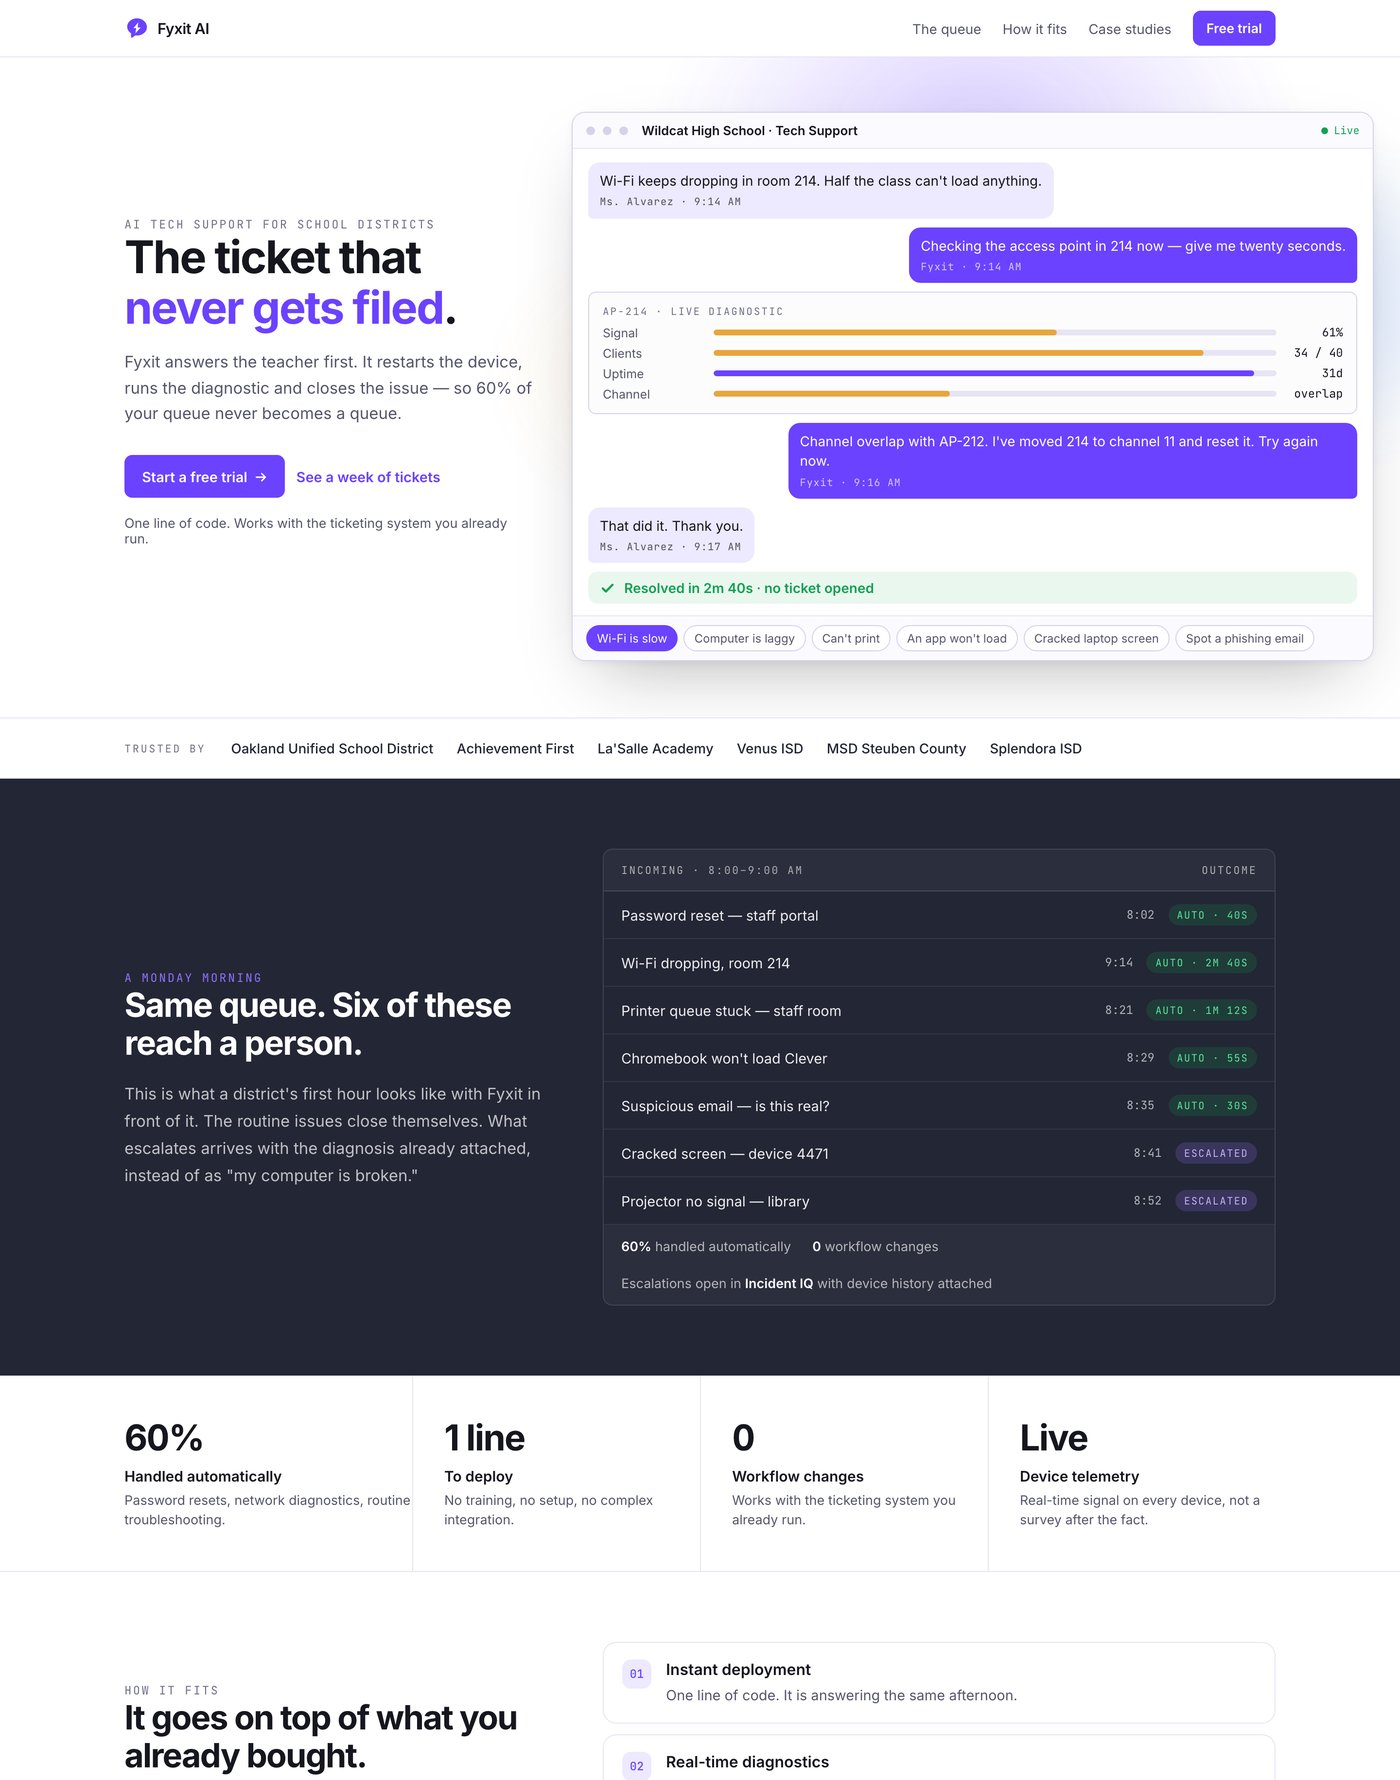
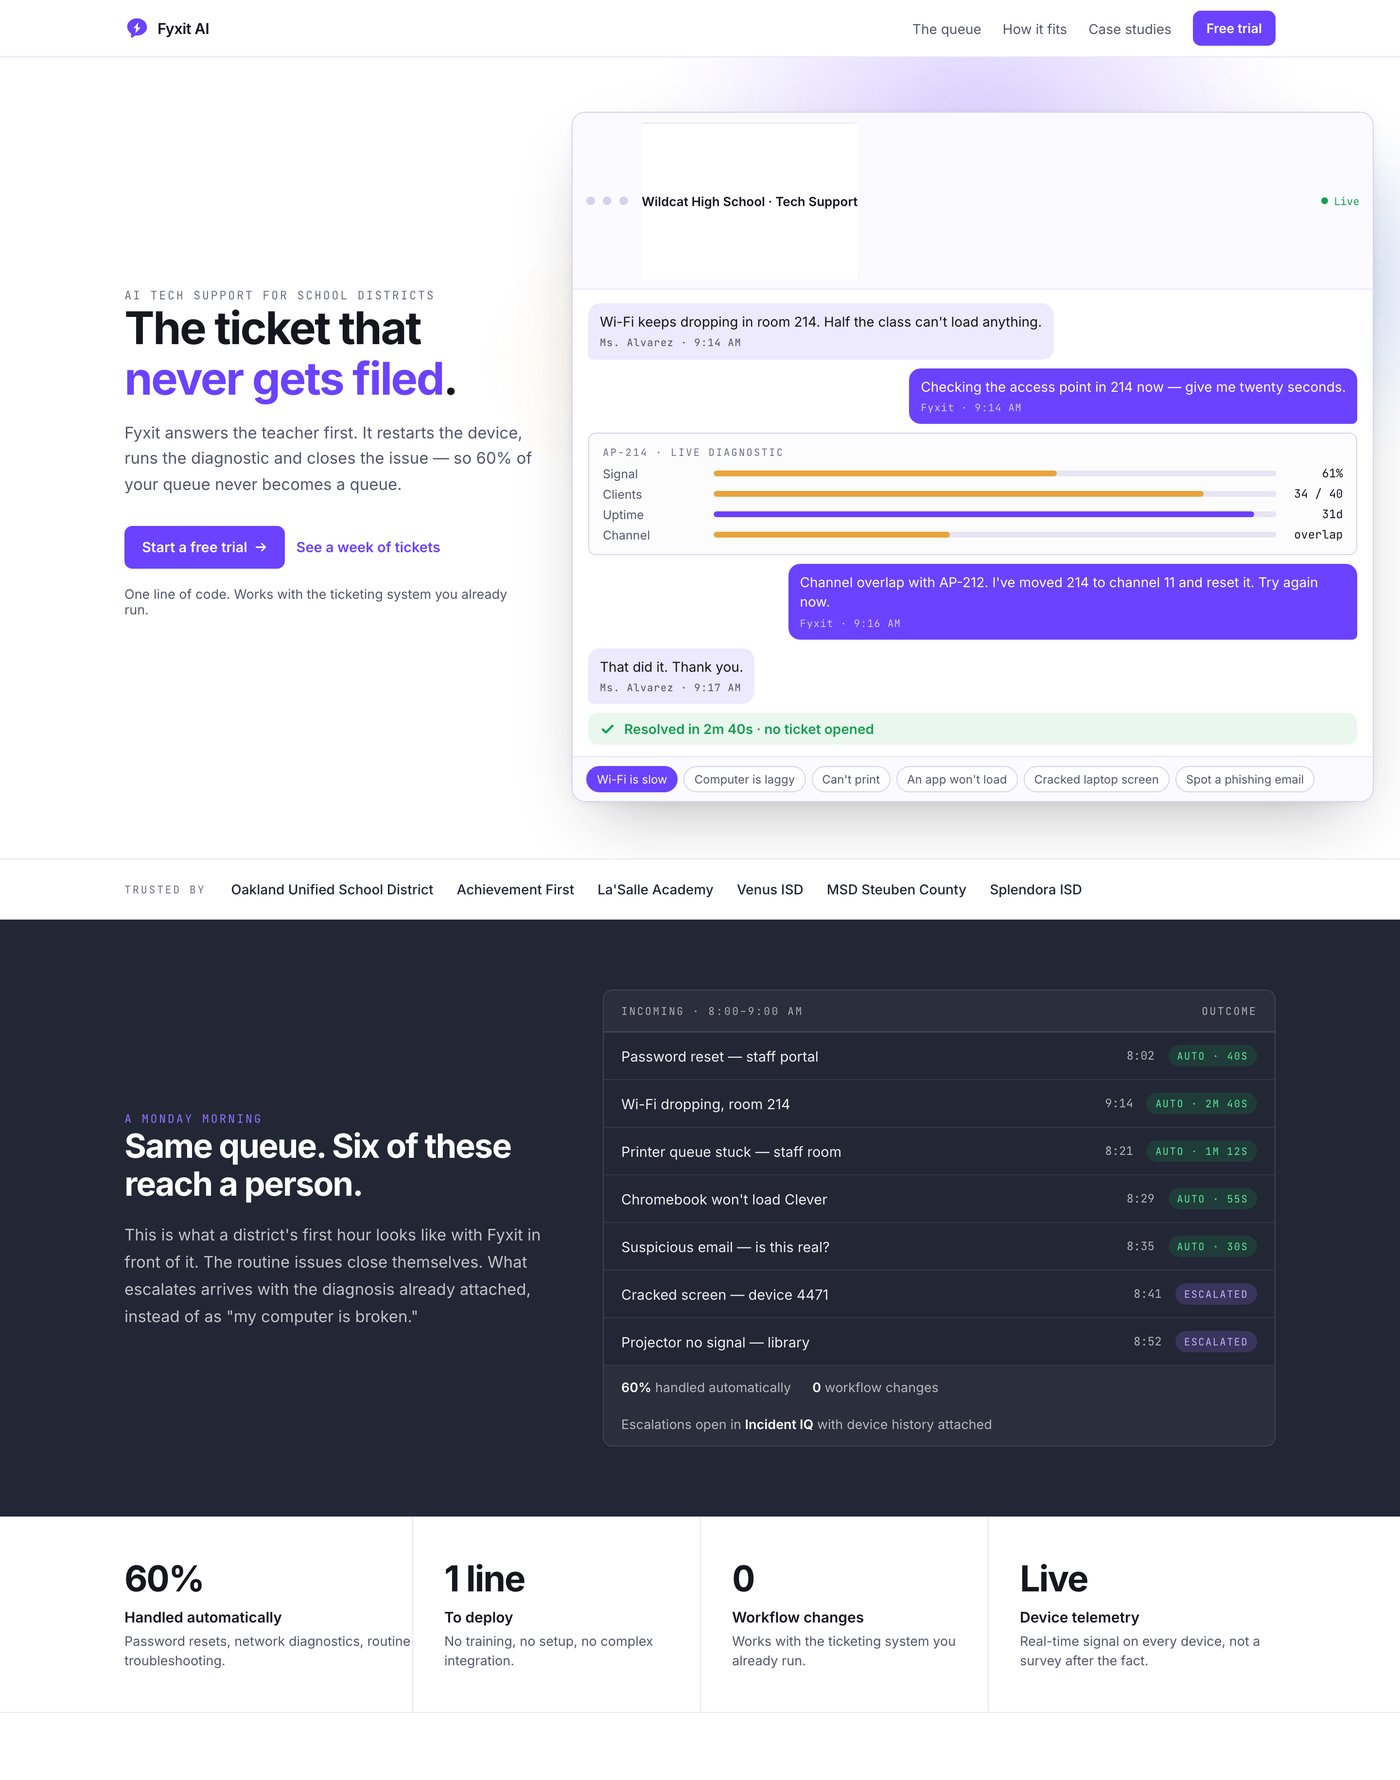
Add photography to the Fyxit page
The page was entirely interface and type. Every reference in the set —
Intercom, Retool, 1Password — grounds itself in photography, and this
product exists in a building full of people.

Real licensed stock from Pexels, not generated. That was a deliberate
call: the subject is K-12 schools, and generated imagery of children is
not something to put on a page a district will read. Photographers are
credited on the page and in the portal caveats.

Two placements. A 'who this is for' section pairs the teacher who does not
want to file a ticket with the district IT lead running two technicians
across nine campuses — the two people the product sits between. And the
close becomes a full-bleed school corridor instead of a flat wash, which
also fixes the page ending on its weakest section.

Two things worth recording about sourcing:
- Unsplash now sits behind a proof-of-work bot challenge (Anubis /
  BotStopper), so browser scraping returns a challenge page, not photos.
- Pexels' API returns 403 error 1010 without a browser User-Agent and
  works immediately with one. Same class as the real-Chrome-UA note in
  knowledge/design/SOURCES.md.

The first teacher photograph I picked was a university lecture hall, which
is the wrong market for a school-district product. Replaced.

diff --git a/concepts/fyxit/index.html b/concepts/fyxit/index.html
@@ -255,12 +255,46 @@ header.nav{position:sticky;top:0;z-index:40;background:rgba(255,255,255,.9);
 .row h4{margin:0;font-size:16px;font-weight:600}
 .row p{margin:5px 0 0;font-size:14.5px;line-height:1.6;color:var(--mid)}
 
-/* 6 · CLOSE */
-.close{background:var(--wash);border-top:1px solid var(--line)}
-.close-in{max-width:1240px;margin:0 auto;padding:64px 28px;text-align:center}
-.close h2{font-size:clamp(1.7rem,3.1vw,2.35rem);line-height:1.14;max-width:20ch;margin:0 auto}
-.close p{margin:20px auto 0;max-width:520px;font-size:17px;line-height:1.65;color:var(--mid)}
-.close .hero-cta{justify-content:center}
+
+/* 5b · WHO IT IS FOR — photography, because the page was all interface and
+   type and the product exists in a building full of people. Real licensed
+   stock (Pexels), not generated: the subject is schools, and generated
+   imagery of children is not something to put on a client deliverable. */
+.who{padding:72px 0;border-top:1px solid var(--line);background:#fff}
+.who-in{max-width:1240px;margin:0 auto;padding:0 28px}
+.who-head{max-width:46ch}
+.who-head h2{font-size:clamp(1.6rem,2.9vw,2.15rem);line-height:1.15}
+.who-head p{margin:16px 0 0;font-size:16px;line-height:1.7;color:var(--mid)}
+.who-grid{margin-top:40px;display:grid;gap:26px;grid-template-columns:1fr 1fr}
+.who-card figure{margin:0;border-radius:10px;overflow:hidden;background:var(--tint)}
+.who-card img{width:100%;aspect-ratio:3/2;object-fit:cover}
+.who-card h3{margin:18px 0 0;font-size:17px;font-weight:600}
+.who-card p{margin:8px 0 0;font-size:15px;line-height:1.65;color:var(--mid);max-width:44ch}
+.who-card .tagline{display:inline-block;margin-top:12px;font-family:"JetBrains Mono",monospace;
+  font-size:11px;letter-spacing:.12em;text-transform:uppercase;color:var(--violet)}
+
+/* 6 · CLOSE — full-bleed photograph instead of a flat wash */
+.close{position:relative;border-top:1px solid var(--line);overflow:hidden;background:var(--slate)}
+.close-bg{position:absolute;inset:0}
+.close-bg img{width:100%;height:100%;object-fit:cover}
+.close-bg::after{content:"";position:absolute;inset:0;
+  background:linear-gradient(90deg,rgba(24,26,38,.94) 0%,rgba(24,26,38,.80) 46%,rgba(24,26,38,.55) 100%)}
+.close-in{position:relative;z-index:2;max-width:1240px;margin:0 auto;padding:92px 28px;text-align:left}
+.close h2{font-size:clamp(1.7rem,3.1vw,2.35rem);line-height:1.14;max-width:18ch;margin:0;color:#fff}
+.close p{margin:18px 0 0;max-width:46ch;font-size:16.5px;line-height:1.65;color:rgba(255,255,255,.82)}
+.close .hero-cta{justify-content:flex-start}
+.close .link{color:#fff}
+.close .link:hover{color:var(--violet-l)}
+.photo-credit{position:absolute;right:16px;bottom:12px;z-index:3;
+  font-family:"JetBrains Mono",monospace;font-size:10px;letter-spacing:.1em;
+  color:rgba(255,255,255,.55)}
+
+@media (max-width:940px){
+  .who-grid{grid-template-columns:1fr}
+  .close-bg::after{background:linear-gradient(180deg,rgba(24,26,38,.9),rgba(24,26,38,.82))}
+}
+
+/* 6 · CLOSE (superseded above) */
 
 footer{background:#fff;border-top:1px solid var(--line)}
 .foot{max-width:1240px;margin:0 auto;padding:34px 28px;display:flex;flex-wrap:wrap;gap:14px;
@@ -462,10 +496,44 @@ footer{background:#fff;border-top:1px solid var(--line)}
   </div>
 </section>
 
+
+<!-- 5b · WHO IT IS FOR -->
+<section class="who">
+  <div class="who-in">
+    <div class="who-head">
+      <span class="eyebrow">Who this is for</span>
+      <h2>Two people, and the afternoon between them.</h2>
+      <p>Every routine ticket is a teacher losing a lesson and a technician losing a drive
+         across the district. Fyxit is the thing that stands between them.</p>
+    </div>
+    <div class="who-grid">
+      <article class="who-card">
+        <figure><img src="photo-teacher.jpg" width="1400" height="933" loading="lazy"
+          alt="A teacher leaning over to help a student at a classroom computer"></figure>
+        <span class="tagline">The teacher</span>
+        <h3>She does not want to file a ticket. She wants the class to load.</h3>
+        <p>Asking Fyxit takes fifteen seconds and happens in the room. No portal, no ticket
+           number, no waiting until sixth period.</p>
+      </article>
+      <article class="who-card">
+        <figure><img src="photo-itlead.jpg" width="1400" height="933" loading="lazy"
+          alt="A district IT lead working on a laptop beside a server rack"></figure>
+        <span class="tagline">The district IT lead</span>
+        <h3>Two technicians, nine campuses, and a queue that never empties.</h3>
+        <p>Sixty percent of that queue closes without her. What reaches her arrives
+           diagnosed, not described.</p>
+      </article>
+    </div>
+  </div>
+</section>
+
 <!-- 6 · CLOSE -->
 <section class="close">
+  <div class="close-bg" aria-hidden="true">
+    <img src="photo-hallway.jpg" width="2000" height="1000" loading="lazy" alt="">
+  </div>
   <div class="close-in">
-    <span class="eyebrow">Get started</span>
+    <span class="eyebrow" style="color:var(--violet-l)">Get started</span>
     <h2>Run a week of your queue through it.</h2>
     <p>Deploy in an afternoon and watch what closes itself. If it does not shorten your
       queue in the first week, you have lost an afternoon.</p>
@@ -474,6 +542,7 @@ footer{background:#fff;border-top:1px solid var(--line)}
       <a class="link" href="/case-studies">Read a district case study</a>
     </div>
   </div>
+  <span class="photo-credit">Photography: Pexels</span>
 </section>
 
 <footer>

diff --git a/public/portal/fyxit/index.html b/public/portal/fyxit/index.html
@@ -255,12 +255,46 @@ header.nav{position:sticky;top:0;z-index:40;background:rgba(255,255,255,.9);
 .row h4{margin:0;font-size:16px;font-weight:600}
 .row p{margin:5px 0 0;font-size:14.5px;line-height:1.6;color:var(--mid)}
 
-/* 6 · CLOSE */
-.close{background:var(--wash);border-top:1px solid var(--line)}
-.close-in{max-width:1240px;margin:0 auto;padding:64px 28px;text-align:center}
-.close h2{font-size:clamp(1.7rem,3.1vw,2.35rem);line-height:1.14;max-width:20ch;margin:0 auto}
-.close p{margin:20px auto 0;max-width:520px;font-size:17px;line-height:1.65;color:var(--mid)}
-.close .hero-cta{justify-content:center}
+
+/* 5b · WHO IT IS FOR — photography, because the page was all interface and
+   type and the product exists in a building full of people. Real licensed
+   stock (Pexels), not generated: the subject is schools, and generated
+   imagery of children is not something to put on a client deliverable. */
+.who{padding:72px 0;border-top:1px solid var(--line);background:#fff}
+.who-in{max-width:1240px;margin:0 auto;padding:0 28px}
+.who-head{max-width:46ch}
+.who-head h2{font-size:clamp(1.6rem,2.9vw,2.15rem);line-height:1.15}
+.who-head p{margin:16px 0 0;font-size:16px;line-height:1.7;color:var(--mid)}
+.who-grid{margin-top:40px;display:grid;gap:26px;grid-template-columns:1fr 1fr}
+.who-card figure{margin:0;border-radius:10px;overflow:hidden;background:var(--tint)}
+.who-card img{width:100%;aspect-ratio:3/2;object-fit:cover}
+.who-card h3{margin:18px 0 0;font-size:17px;font-weight:600}
+.who-card p{margin:8px 0 0;font-size:15px;line-height:1.65;color:var(--mid);max-width:44ch}
+.who-card .tagline{display:inline-block;margin-top:12px;font-family:"JetBrains Mono",monospace;
+  font-size:11px;letter-spacing:.12em;text-transform:uppercase;color:var(--violet)}
+
+/* 6 · CLOSE — full-bleed photograph instead of a flat wash */
+.close{position:relative;border-top:1px solid var(--line);overflow:hidden;background:var(--slate)}
+.close-bg{position:absolute;inset:0}
+.close-bg img{width:100%;height:100%;object-fit:cover}
+.close-bg::after{content:"";position:absolute;inset:0;
+  background:linear-gradient(90deg,rgba(24,26,38,.94) 0%,rgba(24,26,38,.80) 46%,rgba(24,26,38,.55) 100%)}
+.close-in{position:relative;z-index:2;max-width:1240px;margin:0 auto;padding:92px 28px;text-align:left}
+.close h2{font-size:clamp(1.7rem,3.1vw,2.35rem);line-height:1.14;max-width:18ch;margin:0;color:#fff}
+.close p{margin:18px 0 0;max-width:46ch;font-size:16.5px;line-height:1.65;color:rgba(255,255,255,.82)}
+.close .hero-cta{justify-content:flex-start}
+.close .link{color:#fff}
+.close .link:hover{color:var(--violet-l)}
+.photo-credit{position:absolute;right:16px;bottom:12px;z-index:3;
+  font-family:"JetBrains Mono",monospace;font-size:10px;letter-spacing:.1em;
+  color:rgba(255,255,255,.55)}
+
+@media (max-width:940px){
+  .who-grid{grid-template-columns:1fr}
+  .close-bg::after{background:linear-gradient(180deg,rgba(24,26,38,.9),rgba(24,26,38,.82))}
+}
+
+/* 6 · CLOSE (superseded above) */
 
 footer{background:#fff;border-top:1px solid var(--line)}
 .foot{max-width:1240px;margin:0 auto;padding:34px 28px;display:flex;flex-wrap:wrap;gap:14px;
@@ -462,10 +496,44 @@ footer{background:#fff;border-top:1px solid var(--line)}
   </div>
 </section>
 
+
+<!-- 5b · WHO IT IS FOR -->
+<section class="who">
+  <div class="who-in">
+    <div class="who-head">
+      <span class="eyebrow">Who this is for</span>
+      <h2>Two people, and the afternoon between them.</h2>
+      <p>Every routine ticket is a teacher losing a lesson and a technician losing a drive
+         across the district. Fyxit is the thing that stands between them.</p>
+    </div>
+    <div class="who-grid">
+      <article class="who-card">
+        <figure><img src="photo-teacher.jpg" width="1400" height="933" loading="lazy"
+          alt="A teacher leaning over to help a student at a classroom computer"></figure>
+        <span class="tagline">The teacher</span>
+        <h3>She does not want to file a ticket. She wants the class to load.</h3>
+        <p>Asking Fyxit takes fifteen seconds and happens in the room. No portal, no ticket
+           number, no waiting until sixth period.</p>
+      </article>
+      <article class="who-card">
+        <figure><img src="photo-itlead.jpg" width="1400" height="933" loading="lazy"
+          alt="A district IT lead working on a laptop beside a server rack"></figure>
+        <span class="tagline">The district IT lead</span>
+        <h3>Two technicians, nine campuses, and a queue that never empties.</h3>
+        <p>Sixty percent of that queue closes without her. What reaches her arrives
+           diagnosed, not described.</p>
+      </article>
+    </div>
+  </div>
+</section>
+
 <!-- 6 · CLOSE -->
 <section class="close">
+  <div class="close-bg" aria-hidden="true">
+    <img src="photo-hallway.jpg" width="2000" height="1000" loading="lazy" alt="">
+  </div>
   <div class="close-in">
-    <span class="eyebrow">Get started</span>
+    <span class="eyebrow" style="color:var(--violet-l)">Get started</span>
     <h2>Run a week of your queue through it.</h2>
     <p>Deploy in an afternoon and watch what closes itself. If it does not shorten your
       queue in the first week, you have lost an afternoon.</p>
@@ -474,6 +542,7 @@ footer{background:#fff;border-top:1px solid var(--line)}
       <a class="link" href="/case-studies">Read a district case study</a>
     </div>
   </div>
+  <span class="photo-credit">Photography: Pexels</span>
 </section>
 
 <footer>

diff --git a/src/content/portals.ts b/src/content/portals.ts
@@ -111,6 +111,7 @@ export const portals: Portal[] = [
         caveats: [
           "Every figure and product claim is yours, quoted from hubbleiq.com on 2026-09-18: 60% of routine issues handled automatically, one line of code to deploy, no workflow changes, and the Incident IQ, Zendesk, Freshdesk, SMTP and Chrome integrations.",
           "The conversation, the diagnostic readings and the queue are illustrative — plausible values built to show the layout, not data from your system. A real build wires them to live telemetry or replaces them with a recorded session.",
+          "Photography is real licensed stock from Pexels — Thirdman, Christina Morillo and Greece-China News — not generated. We used real photography deliberately here: the subject is schools, and generated imagery of children has no place on a page a district will read.",
           "District names are reproduced from your own Trusted By rail. We have not contacted any of them.",
           "The escalation figure on the page infers that what is not automated is escalated. Your site states the 60% but not the remainder, so treat that line as ours until you confirm it.",
         ],
